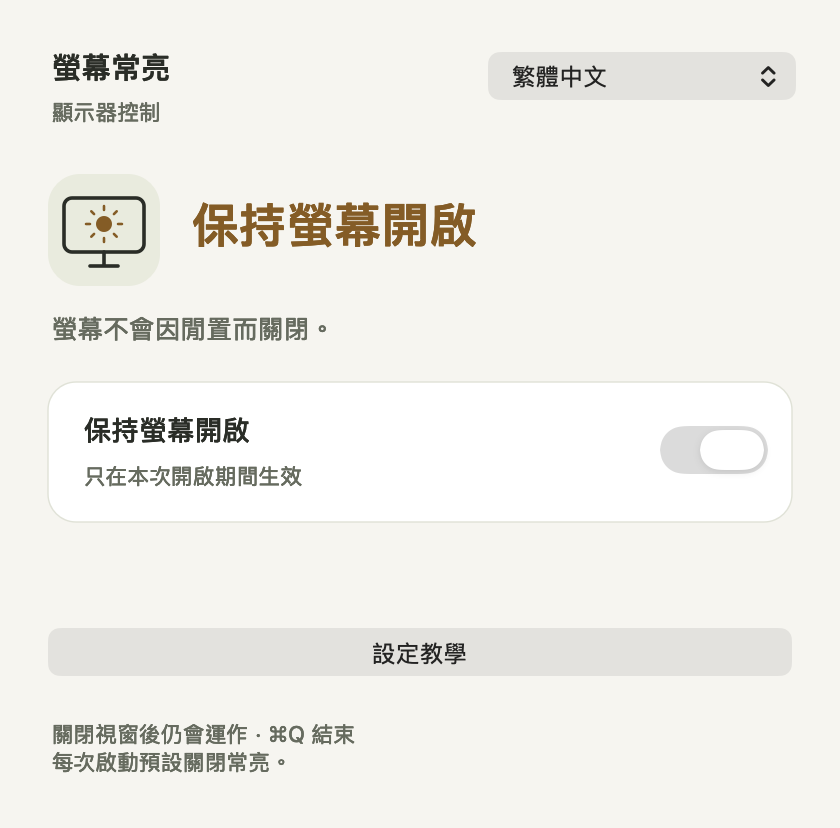
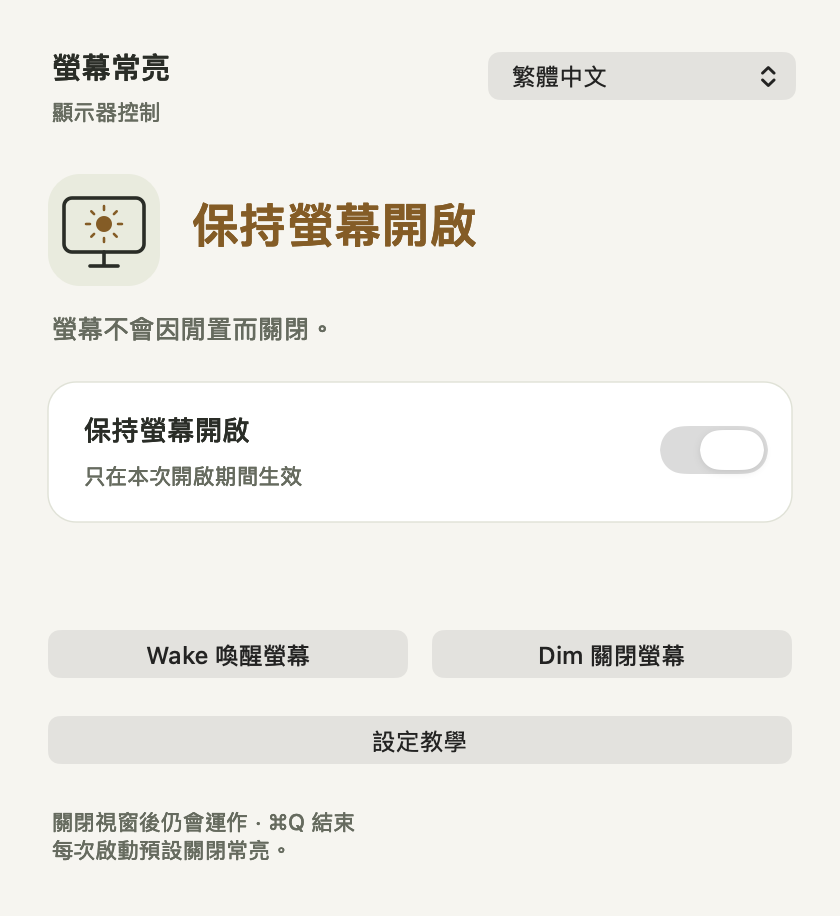
Add Wake and Dim controls to the window and menu bar in 1.3.0

diff --git a/Sources/AwakePanelView.swift b/Sources/AwakePanelView.swift
@@ -2,14 +2,17 @@ import AppKit
 
 @MainActor
 final class AwakePanelView: NSView {
-    static let panelSize = NSSize(width: 420, height: 414)
+    static let panelSize = NSSize(width: 420, height: 458)
     override var isFlipped: Bool { true }
     let awakeSwitch = NSSwitch(frame: NSRect(x: 336, y: 211, width: 42, height: 28))
     let languagePopup = NSPopUpButton(frame: NSRect(x: 244, y: 24, width: 154, height: 28), pullsDown: false)
     let guideButton = NSButton(title: "", target: nil, action: nil)
+    let wakeButton = NSButton(title: "", target: nil, action: nil)
+    let dimButton = NSButton(title: "", target: nil, action: nil)
     var onToggle: ((Bool) -> Void)?
     var onLanguageChange: ((AppLanguage) -> Void)?
     var onGuide: (() -> Void)?
+    var onDisplayAction: ((DisplayAction) -> Void)?
     private let product = NSTextField(labelWithString: "")
     private let eyebrow = NSTextField(labelWithString: "")
     private let state = NSTextField(labelWithString: "")
@@ -19,6 +22,7 @@ final class AwakePanelView: NSView {
     private let footer = NSTextField(wrappingLabelWithString: "")
     private let errorLabel = NSTextField(wrappingLabelWithString: "")
     private var enabled = false
+    private var messageIsFailure = false
 
     override init(frame frameRect: NSRect) {
         super.init(frame: NSRect(origin: frameRect.origin, size: Self.panelSize))
@@ -29,7 +33,7 @@ final class AwakePanelView: NSView {
         configure(errorLabel, rect: NSRect(x: 24, y: 270, width: 372, height: 35), size: 11)
         configure(switchLabel, rect: NSRect(x: 40, y: 206, width: 282, height: 22), size: 14, weight: .medium)
         configure(languageLabel, rect: NSRect(x: 40, y: 231, width: 282, height: 18), size: 11)
-        configure(footer, rect: NSRect(x: 24, y: 360, width: 372, height: 36), size: 11)
+        configure(footer, rect: NSRect(x: 24, y: 404, width: 372, height: 36), size: 11)
         awakeSwitch.target = self
         awakeSwitch.action = #selector(toggle)
         addSubview(awakeSwitch)
@@ -38,14 +42,26 @@ final class AwakePanelView: NSView {
         languagePopup.target = self
         languagePopup.action = #selector(changeLanguage)
         addSubview(languagePopup)
-        guideButton.frame = NSRect(x: 24, y: 311, width: 372, height: 30)
+        wakeButton.frame = NSRect(x: 24, y: 311, width: 180, height: 32)
+        dimButton.frame = NSRect(x: 216, y: 311, width: 180, height: 32)
+        for button in [wakeButton, dimButton] {
+            button.bezelStyle = .rounded
+            button.font = .systemFont(ofSize: 12, weight: .medium)
+            button.target = self
+            addSubview(button)
+        }
+        wakeButton.action = #selector(wake)
+        dimButton.action = #selector(dim)
+        guideButton.frame = NSRect(x: 24, y: 355, width: 372, height: 30)
         guideButton.bezelStyle = .rounded
         guideButton.font = .systemFont(ofSize: 12)
         guideButton.target = self
         guideButton.action = #selector(showGuide)
         addSubview(guideButton)
         awakeSwitch.nextKeyView = languagePopup
-        languagePopup.nextKeyView = guideButton
+        languagePopup.nextKeyView = wakeButton
+        wakeButton.nextKeyView = dimButton
+        dimButton.nextKeyView = guideButton
         guideButton.nextKeyView = awakeSwitch
         update(enabled: false, language: .english, error: nil)
     }
@@ -61,7 +77,7 @@ final class AwakePanelView: NSView {
         addSubview(field)
     }
 
-    func update(enabled: Bool, language: AppLanguage, error: PowerError?) {
+    func update(enabled: Bool, language: AppLanguage, error: PowerError?, actionState: DisplayActionState = .idle) {
         self.enabled = enabled
         let text = AppText(language: language.resolved)
         product.stringValue = text.productName
@@ -72,8 +88,18 @@ final class AwakePanelView: NSView {
         languageLabel.stringValue = text.sessionNote
         guideButton.title = text.guideButton
         guideButton.toolTip = text.guideTitle
+        wakeButton.title = text.wakeTitle
+        wakeButton.toolTip = text.wakeHelp
+        wakeButton.setAccessibilityHelp(text.wakeHelp)
+        dimButton.title = text.dimTitle
+        dimButton.toolTip = text.dimHelp
+        dimButton.setAccessibilityHelp(text.dimHelp)
+        wakeButton.isEnabled = !actionState.isRunning
+        dimButton.isEnabled = !actionState.isRunning
+        awakeSwitch.isEnabled = !actionState.isRunning
         footer.stringValue = text.footer
-        errorLabel.stringValue = error.map(text.error) ?? ""
+        errorLabel.stringValue = error.map(text.error) ?? text.actionMessage(actionState)
+        messageIsFailure = error != nil || actionState.isFailure
         awakeSwitch.state = enabled ? .on : .off
         awakeSwitch.setAccessibilityLabel(text.switchTitle)
         awakeSwitch.setAccessibilityHelp(text.switchHelp)
@@ -87,6 +113,8 @@ final class AwakePanelView: NSView {
 
     @objc private func toggle() { onToggle?(awakeSwitch.state == .on) }
     @objc private func showGuide() { onGuide?() }
+    @objc private func wake() { onDisplayAction?(.wake) }
+    @objc private func dim() { onDisplayAction?(.dim) }
     @objc private func changeLanguage() {
         let index = languagePopup.indexOfSelectedItem
         guard AppLanguage.allCases.indices.contains(index) else { return }
@@ -118,7 +146,7 @@ final class AwakePanelView: NSView {
         state.textColor = enabled ? amber : foreground
         switchLabel.textColor = foreground
         for label in [eyebrow, detail, languageLabel, footer] { label.textColor = secondary }
-        errorLabel.textColor = .systemRed
+        errorLabel.textColor = messageIsFailure ? .systemRed : secondary
         drawMonitor(in: NSRect(x: 32, y: 96, width: 40, height: 40), ink: foreground,
                     accent: enabled ? amber : secondary, active: enabled)
     }

diff --git a/Sources/main.swift b/Sources/main.swift
@@ -10,6 +10,7 @@ final class AppDelegate: NSObject, NSApplicationDelegate {
     private var assertionID: IOPMAssertionID?
     private var language = AppLanguage.system
     private var powerError: PowerError?
+    private var actionState = DisplayActionState.idle
     private var window: NSWindow!
     private var statusItem: NSStatusItem!
     private let panel = AwakePanelView()
@@ -24,6 +25,8 @@ final class AppDelegate: NSObject, NSApplicationDelegate {
     private let quitItem = NSMenuItem(title: "", action: #selector(quit), keyEquivalent: "q")
     private let appQuitItem = NSMenuItem(title: "", action: #selector(quit), keyEquivalent: "q")
     private let controlsItem = NSMenuItem(title: "", action: #selector(showMenuBarControls), keyEquivalent: "")
+    private let wakeItem = NSMenuItem(title: "", action: #selector(wakeDisplay), keyEquivalent: "")
+    private let dimItem = NSMenuItem(title: "", action: #selector(dimDisplay), keyEquivalent: "")
 
     func applicationDidFinishLaunching(_ notification: Notification) {
         language = AppLanguage(rawValue: defaults.string(forKey: "appLanguage") ?? "system") ?? .system
@@ -78,11 +81,16 @@ final class AppDelegate: NSObject, NSApplicationDelegate {
     private func updateUI() {
         let enabled = assertionID != nil
         let text = AppText(language: language.resolved)
-        panel.update(enabled: enabled, language: language, error: powerError)
+        panel.update(enabled: enabled, language: language, error: powerError, actionState: actionState)
         window.title = text.productName
         menuState.title = text.currentState(enabled)
         menuToggle.title = text.switchTitle
         menuToggle.state = enabled ? .on : .off
+        menuToggle.isEnabled = !actionState.isRunning
+        wakeItem.title = text.wakeTitle
+        dimItem.title = text.dimTitle
+        wakeItem.isEnabled = !actionState.isRunning
+        dimItem.isEnabled = !actionState.isRunning
         showItem.title = text.showWindow
         quitItem.title = text.quit
         appQuitItem.title = text.quit
@@ -99,6 +107,27 @@ final class AppDelegate: NSObject, NSApplicationDelegate {
     }
 
     @objc private func toggleFromMenu() { setEnabled(assertionID == nil) }
+    @objc private func wakeDisplay() { performDisplayAction(.wake) }
+    @objc private func dimDisplay() { performDisplayAction(.dim) }
+
+    private func performDisplayAction(_ action: DisplayAction) {
+        guard !actionState.isRunning else { return }
+        if action == .dim {
+            setEnabled(false)
+            guard assertionID == nil else { return }
+        }
+        actionState = .running(action)
+        updateUI()
+        Task { [weak self] in
+            // Let the button release/menu dismissal finish before display sleep.
+            if action == .dim { try? await Task.sleep(for: .milliseconds(400)) }
+            let code = await DisplayCommand.perform(command: action.rawValue)
+            guard let self else { return }
+            self.actionState = .finished(action, code)
+            if code != 0 { self.logger.error("Display action failed, exit code: \(code)") }
+            self.updateUI()
+        }
+    }
     @objc private func showWindow() {
         window.makeKeyAndOrderFront(nil)
         NSApp.activate(ignoringOtherApps: true)
@@ -146,9 +175,16 @@ final class AppDelegate: NSObject, NSApplicationDelegate {
         statusItem.isVisible = true
         statusItem.button?.setAccessibilityIdentifier("ScreenAwakeMenuBar")
         let menu = NSMenu()
+        menu.autoenablesItems = false
+        menuState.isEnabled = false
         menu.addItem(menuState)
         menuToggle.target = self
         menu.addItem(menuToggle)
+        menu.addItem(.separator())
+        wakeItem.target = self
+        dimItem.target = self
+        menu.addItem(wakeItem)
+        menu.addItem(dimItem)
         menu.addItem(.separator())
         showItem.target = self
         menu.addItem(showItem)
@@ -168,6 +204,7 @@ final class AppDelegate: NSObject, NSApplicationDelegate {
         window.initialFirstResponder = panel.awakeSwitch
         panel.onToggle = { [weak self] enabled in self?.setEnabled(enabled) }
         panel.onGuide = { [weak self] in self?.showGuide() }
+        panel.onDisplayAction = { [weak self] action in self?.performDisplayAction(action) }
         panel.onLanguageChange = { [weak self] language in
             guard let self else { return }
             self.language = language

diff --git a/Sources/AppText.swift b/Sources/AppText.swift
@@ -18,6 +18,25 @@ struct PowerError {
     let code: Int32
 }
 
+enum DisplayAction: String, Sendable {
+    case wake, dim
+}
+
+enum DisplayActionState {
+    case idle
+    case running(DisplayAction)
+    case finished(DisplayAction, Int32)
+
+    var isRunning: Bool {
+        if case .running = self { return true }
+        return false
+    }
+    var isFailure: Bool {
+        if case .finished(_, let code) = self { return code != 0 }
+        return false
+    }
+}
+
 struct AppText {
     let language: AppLanguage
     private var chinese: Bool { language == .traditionalChinese }
@@ -33,6 +52,24 @@ struct AppText {
     var done: String { chinese ? "完成" : "Done" }
     var helpMenu: String { chinese ? "輔助說明" : "Help" }
     var menuBarControls: String { chinese ? "選單列控制項" : "Menu Bar Controls" }
+    var wakeTitle: String { chinese ? "Wake 喚醒螢幕" : "Wake" }
+    var dimTitle: String { chinese ? "Dim 關閉螢幕" : "Dim" }
+    var wakeHelp: String { chinese ? "送出一次喚醒要求，不會開啟持續常亮，也無法解鎖已鎖定的 Mac。" : "Wake the display once. Does not enable keep-awake or unlock a locked Mac." }
+    var dimHelp: String { chinese ? "先關閉本 App 的常亮，再送出關閉螢幕要求。密碼要求仍依系統設定。" : "Turn off this app’s keep-awake request, then sleep the display. The system password setting still applies." }
+    func actionMessage(_ state: DisplayActionState) -> String {
+        switch state {
+        case .idle: return ""
+        case .running(let action):
+            if chinese { return action == .wake ? "正在喚醒螢幕…" : "正在關閉螢幕…" }
+            return action == .wake ? "Waking the display…" : "Turning the display off…"
+        case .finished(let action, let code):
+            if code != 0 {
+                return chinese ? "\(action.rawValue.capitalized) 無法完成（\(code)）。請查看設定教學。" : "\(action.rawValue.capitalized) failed (\(code)). See Setup guide."
+            }
+            if chinese { return action == .wake ? "已送出喚醒要求。" : "已送出關屏要求。移動滑鼠可喚醒。" }
+            return action == .wake ? "Display wake requested." : "Display sleep requested. Move the mouse to wake it."
+        }
+    }
     var guideIntro: String { chinese ? "常亮開關本身不需要這項設定。只有需要讓螢幕關閉後，仍能由腳本喚醒並繼續錄影時，才需要以下步驟。" : "The keep-awake switch works without this setup. Follow these steps only if a script needs to wake the display and resume recording after it turns off." }
     var guideSteps: [(String, String)] {
         if chinese { return [
@@ -46,7 +83,7 @@ struct AppText {
             ("Restore Immediately when recording is finished", "This changes the password requirement after display sleep; it does not remove your account password. While set to Never, others may be able to use this Mac. Return to the same option and choose Immediately when finished.")
         ]
     }
-    var guideFootnote: String { chinese ? "已鎖定的 Mac 仍需先自行解鎖。若選項仍是灰色，可能受裝置管理政策限制。" : "Unlock an already locked Mac yourself first. Device management policies may also prevent changing this setting." }
+    var guideFootnote: String { chinese ? "Never 不會取消手動或其他程式送出的「立即鎖定」；這些情況仍需自行解鎖。若選項是灰色，可能受裝置管理政策限制。" : "Never does not cancel an explicit lock by you or another app; unlock those sessions yourself. Device management policies may also prevent changing this setting." }
     var languageLabel: String { chinese ? "語言" : "Language" }
     var languageHelp: String { chinese ? "立即切換介面語言，不影響螢幕狀態。" : "Change the interface language without changing the display state." }
     var systemOption: String { chinese ? "跟隨系統" : "System" }

diff --git a/scripts/render-previews.swift b/scripts/render-previews.swift
@@ -23,16 +23,22 @@ struct RenderPreviews {
         }
         for language in [AppLanguage.english, .traditionalChinese] {
             for (theme, appearance) in [("light", NSAppearance.Name.aqua), ("dark", .darkAqua)] {
-                let cases: [(name: String, enabled: Bool, error: PowerError?)] = [
-                    ("on", true, nil),
-                    ("off", false, nil),
-                    ("error-enabling", false, PowerError(enabling: true, code: Int32.min)),
-                    ("error-disabling", true, PowerError(enabling: false, code: Int32.min))
+                let cases: [(name: String, enabled: Bool, error: PowerError?, action: DisplayActionState)] = [
+                    ("on", true, nil, .idle),
+                    ("off", false, nil, .idle),
+                    ("error-enabling", false, PowerError(enabling: true, code: Int32.min), .idle),
+                    ("error-disabling", true, PowerError(enabling: false, code: Int32.min), .idle),
+                    ("waking", true, nil, .running(.wake)),
+                    ("dimming", false, nil, .running(.dim)),
+                    ("wake-failed", true, nil, .finished(.wake, Int32.min)),
+                    ("dim-failed", false, nil, .finished(.dim, Int32.min)),
+                    ("wake-done", true, nil, .finished(.wake, 0)),
+                    ("dim-done", false, nil, .finished(.dim, 0))
                 ]
                 for preview in cases {
                     let panel = AwakePanelView()
                     panel.appearance = NSAppearance(named: appearance)
-                    panel.update(enabled: preview.enabled, language: language, error: preview.error)
+                    panel.update(enabled: preview.enabled, language: language, error: preview.error, actionState: preview.action)
                     let name = "\(language.rawValue)-\(theme)-\(preview.name)"
                     let failures = panel.measuredLayoutFailures()
                     failureCount += failures.count

diff --git a/Sources/DisplayCommand.swift b/Sources/DisplayCommand.swift
@@ -1,21 +1,25 @@
 import Foundation
 import IOKit
 
-struct CommandResult {
+nonisolated struct CommandResult {
     let status: Int32
     let output: String
 }
 
 // Injectable only from Swift tests; production always uses fixed system executables.
-struct DisplayCommandRunner {
+nonisolated struct DisplayCommandRunner {
     var process: (String, [String]) throws -> CommandResult
     var requestIdle: () -> IOReturn
     static var live: Self { Self(process: DisplayCommand.runProcess, requestIdle: DisplayCommand.requestIdle) }
 }
 
-enum DisplayCommand {
-    static let version = "1.2.1"
+nonisolated enum DisplayCommand {
+    static let version = "1.3.0"
     static let usage = "Usage: ScreenAwake wake | dim | status | --help | --version"
+
+    @concurrent static func perform(command: String) async -> Int32 {
+        run(arguments: [command])
+    }
 
     static func run(arguments: [String], runner: DisplayCommandRunner = .live) -> Int32 {
         guard arguments.count == 1 else { writeError(usage); return 64 }

diff --git a/SETUP.md b/SETUP.md
@@ -26,6 +26,7 @@ While set to Never, others may be able to use this Mac. Leave your account passw
 
 - **Keep display awake ON** prevents idle display sleep while the app runs, including with the window closed.
 - **OFF** releases this app’s request and follows the existing system timeout; it does not immediately turn off the display. Other apps may still keep it awake.
+- **Wake** wakes the display once without enabling continuous keep-awake. **Dim** releases this app’s keep-awake request, then requests display sleep. Both actions are in the main window and menu bar; the system password setting still applies.
 - The switch starts off on every launch. Your language choice is remembered.
 - **Setup guide** opens these instructions inside the app, with a button to open Lock Screen settings.
 - **⌘Q** quits and releases the app’s request.
@@ -46,7 +47,7 @@ Source builds also provide `./build/ScreenAwake`. Wake ends its user-activity as
 
 `dim` requests sleep for all displays. It does not sleep the computer, change brightness, or write system timeouts. A rejected request returns nonzero with an explanation. User input or another app can wake the display again immediately.
 
-A manually locked, restarted or logged-out Mac may still require authentication. The CLI cannot unlock an already locked Mac.
+Never controls the password requirement after idle/display sleep. An explicit lock by you or another app still requires unlocking; Never does not cancel it. A restarted or logged-out Mac may also require authentication. The CLI cannot unlock an already locked Mac.
 
 ## Restore protection
 

diff --git a/SETUP.zh-Hant.md b/SETUP.zh-Hant.md
@@ -31,6 +31,8 @@
 
 - **保持螢幕開啟 ON**：螢幕不會因閒置而關閉。關閉視窗仍有效；按 ⌘Q 才會結束 App。
 - **OFF**：釋放本 App 的常亮要求，恢復系統原本的閒置行為，不是立即關閉螢幕。其他 App 仍可能有自己的常亮要求。
+- **Wake 喚醒螢幕**：送出一次喚醒要求，不會自動開啟持續常亮。
+- **Dim 關閉螢幕**：先關閉本 App 的常亮，再請系統關閉螢幕。密碼要求依原本的系統設定。主視窗與選單列都有這兩個按鈕。
 - 每次啟動都預設 OFF；只記住介面語言。
 - 點 **設定教學** 可以在 App 內閱讀步驟，也能按按鈕打開 Lock Screen 設定。
 
@@ -51,7 +53,7 @@ AWAKE='/Applications/Screen Awake.app/Contents/MacOS/ScreenAwake'
 
 `dim` 請求關閉所有顯示器，不會讓整台 Mac 睡眠、修改亮度或改寫系統休眠時間。若 macOS 拒絕，CLI 會回傳非零狀態並列出原因。其他使用者輸入或 App 可能立刻重新喚醒螢幕。
 
-手動鎖定、重新啟動、登出後仍可能需要登入密碼。CLI 無法解鎖已鎖定的 Mac。
+Never 只調整閒置／關閉螢幕後的密碼要求。若你或其他程式另外送出「立即鎖定」指令，仍需要自行解鎖；Never 不會取消這種鎖定。重新啟動、登出後也仍可能需要登入密碼。CLI 無法解鎖已鎖定的 Mac。
 
 ## 5. 想恢復密碼保護
 

diff --git a/README.md b/README.md
@@ -39,6 +39,8 @@ The **monitor icon** in the menu bar stays visible while the app runs. A sun ins
 
 Closing the window leaves the app running. Its menu bar icon or Dock icon reopens it; **⌘Q** quits and releases its keep-awake request. Your language choice is remembered; the keep-awake switch is not restored on launch.
 
+**Wake** wakes the display once, without turning on continuous keep-awake. **Dim** releases this app’s keep-awake request, then asks macOS to turn off the display. Both buttons are available in the main window and menu bar. While an action runs, display controls are disabled briefly; progress and errors appear in the main window.
+
 The **Setup guide** button explains the optional password setting and opens the relevant System Settings pane without changing it.
 
 The language menu lets you choose English or Traditional Chinese instantly. The initial choice follows your system language.

diff --git a/README.zh-Hant.md b/README.zh-Hant.md
@@ -39,6 +39,8 @@ App 運作時，選單列會顯示**螢幕圖示**；裡面有太陽代表常亮
 
 關閉小視窗後仍會繼續運作。點選選單列或 Dock 圖示可重新開啟；按 **⌘Q** 結束 App，便會釋放它的亮屏要求。語言選擇會記住，常亮開關不會在下次啟動時恢復。
 
+主視窗與選單列現在都有 **Wake 喚醒螢幕**、**Dim 關閉螢幕**。Wake 只喚醒一次，不會開啟持續常亮；Dim 會先釋放本 App 的常亮要求，再請 macOS 關閉螢幕。執行期間會短暫停用顯示器控制，並在主視窗顯示進度或錯誤。
+
 點 **設定教學** 可以閱讀步驟，並打開對應的系統設定頁。App 不會代改安全設定。
 
 首次開啟會跟隨系統語言，也能透過語言選單切換繁體中文或英文，立即生效。

diff --git a/CHANGELOG.md b/CHANGELOG.md
@@ -1,5 +1,11 @@
 # Changelog
 
+## 1.3.0
+
+- Wake and Dim buttons in the main window and menu bar.
+- Dim releases the app’s keep-awake request before asking macOS to turn off the display.
+- Background command execution keeps the UI responsive, with progress, error feedback and duplicate-action prevention.
+
 ## 1.2.1
 
 - A consistent monitor icon in the menu bar, with a sun inside when keep-awake is on.
